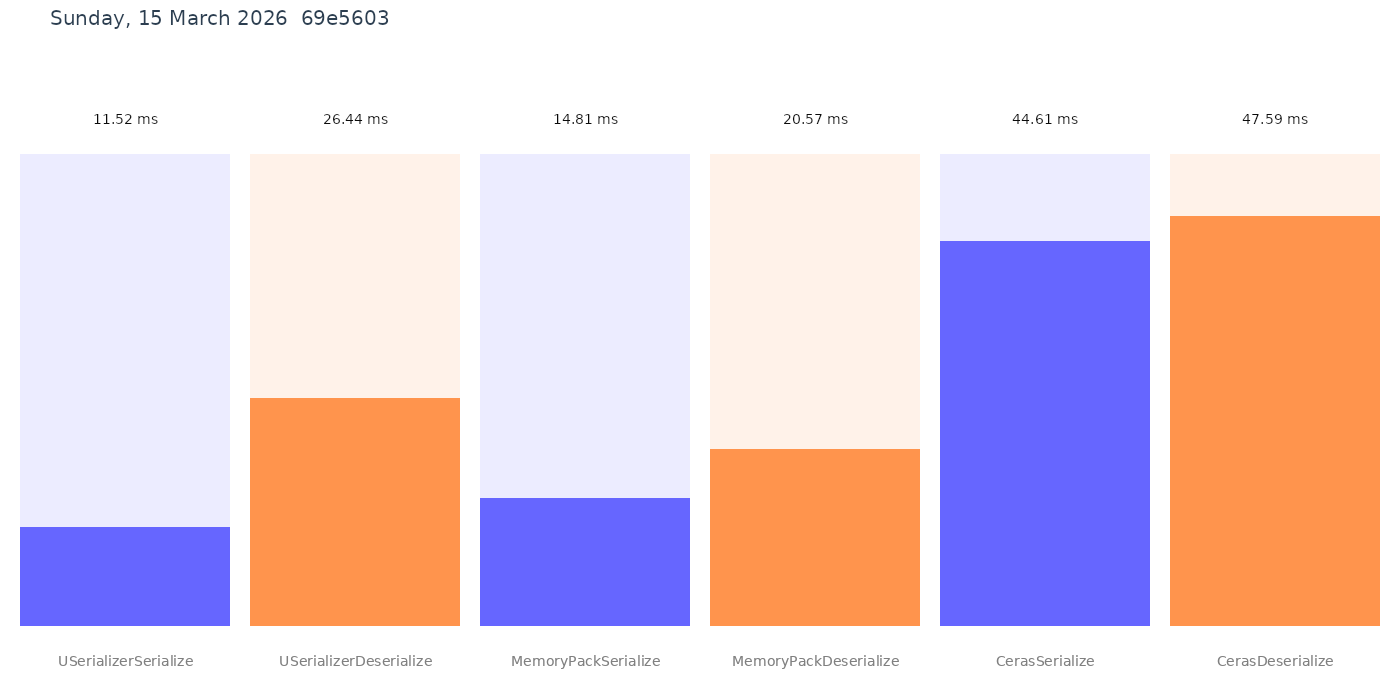
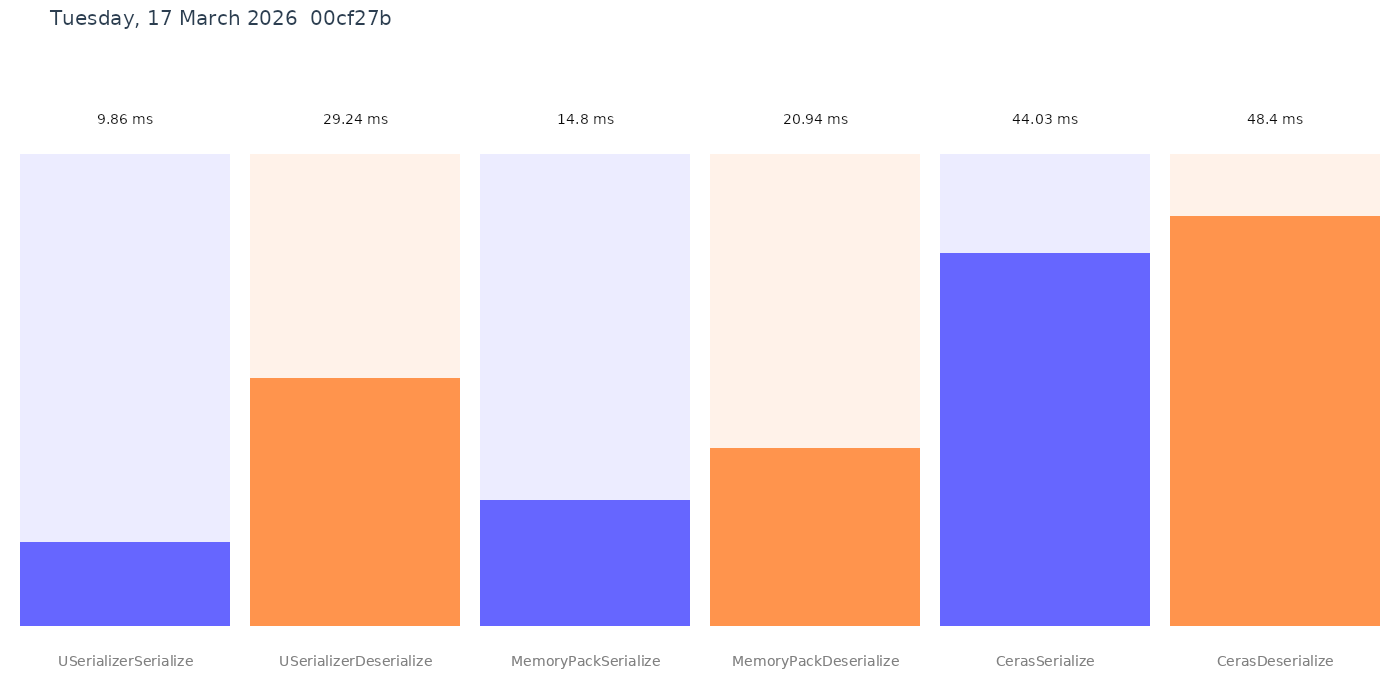
deploy: 00cf27be22927e55a88be920fc39bf5aa87965c4

diff --git a/performance.md b/performance.md
@@ -10,11 +10,11 @@ Job=ShortRun  IterationCount=3  LaunchCount=1
 WarmupCount=3  
 
 ```
-|                 Method |     Mean |    Error |   StdDev |
-|----------------------- |---------:|---------:|---------:|
-|   USerializerSerialize | 11.52 ms | 0.763 ms | 0.042 ms |
-| USerializerDeserialize | 26.44 ms | 1.291 ms | 0.071 ms |
-|    MemoryPackSerialize | 14.81 ms | 0.360 ms | 0.020 ms |
-|  MemoryPackDeserialize | 20.57 ms | 4.248 ms | 0.233 ms |
-|         CerasSerialize | 44.61 ms | 0.608 ms | 0.033 ms |
-|       CerasDeserialize | 47.59 ms | 4.875 ms | 0.267 ms |
+|                 Method |      Mean |      Error |    StdDev |
+|----------------------- |----------:|-----------:|----------:|
+|   USerializerSerialize |  9.864 ms |  4.4520 ms | 0.2440 ms |
+| USerializerDeserialize | 29.243 ms |  0.2146 ms | 0.0118 ms |
+|    MemoryPackSerialize | 14.800 ms |  0.3660 ms | 0.0201 ms |
+|  MemoryPackDeserialize | 20.941 ms |  2.7364 ms | 0.1500 ms |
+|         CerasSerialize | 44.033 ms |  1.2448 ms | 0.0682 ms |
+|       CerasDeserialize | 48.399 ms | 10.1007 ms | 0.5537 ms |
